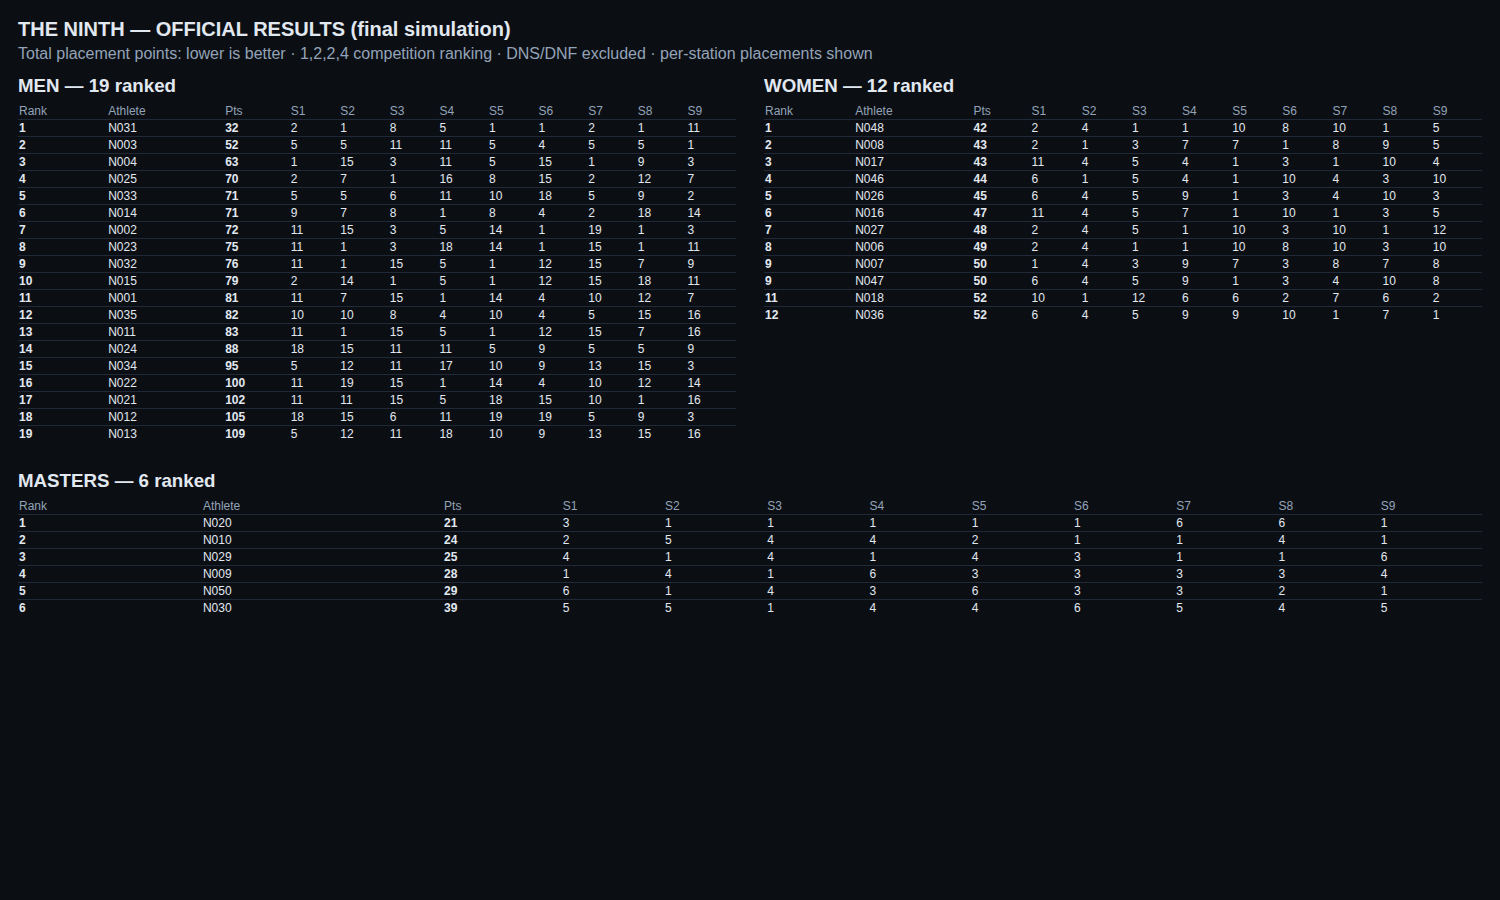
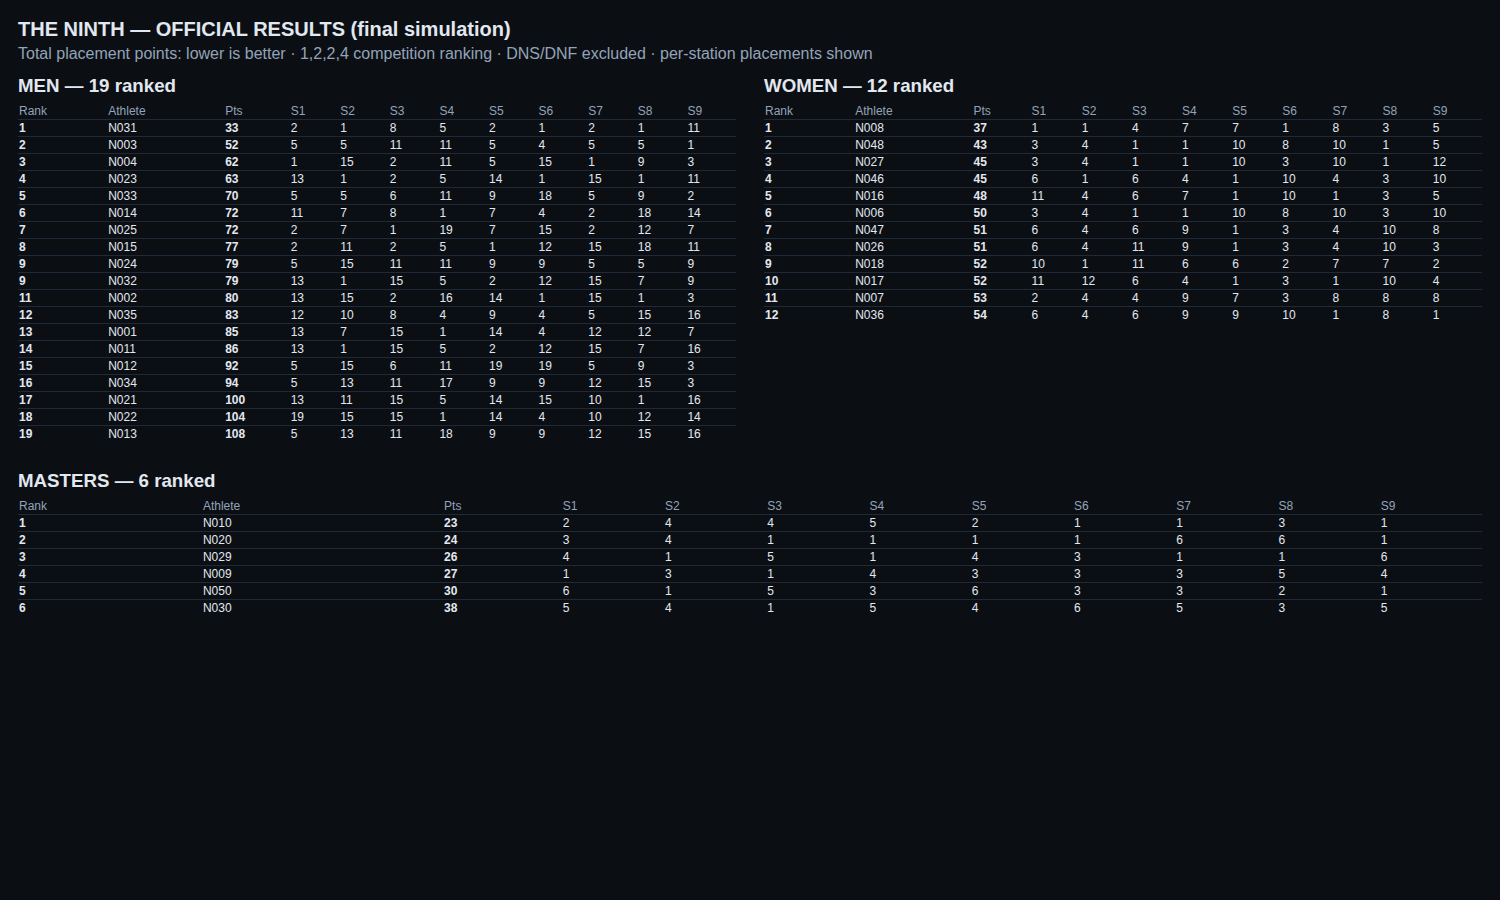
Final end-to-end validation report (docs/race/12) + refreshed visuals
Claude-Session: https://claude.ai/code/session_01AhLUVyhd5PDZQBcRpc2HBH

diff --git a/docs/race/12-final-end-to-end-validation.md b/docs/race/12-final-end-to-end-validation.md
@@ -1,0 +1,197 @@
+# Final end-to-end race validation — THE NINTH
+
+Baseline: the approved checkpoint + Phases 1–10. THE NINTH stays isolated from the gym system. **No Supabase project was created, connected or configured; no credentials were requested or committed; nothing was deployed.** `apps/race` stays in the Turbo build. This phase added **no product features**; it found and fixed **one race-critical scoring bug** (§11).
+
+## FINAL STATUS: **READY FOR PRODUCTION INFRASTRUCTURE**
+
+The whole event — registration to official publication — ran through the real RPCs as the real roles, and an independent model (separate code, written from the rulebook, not from the SQL) agreed with the system on every window, action outcome, raw score, placement, total and rank in **all 6 consecutive final runs** (≈ 8,700 checks per run, 0 mismatches). Every exception in the brief was exercised. Concurrency storms, role matrix, audit reconstruction and append-only checks pass.
+
+Not blockers for infrastructure, but **open before race day** (details in §13):
+1. **REAL-WORLD OCR VALIDATION = PENDING.** No real rowing-monitor photos were available. Nothing was faked. A ready-to-run validator exists (§7). Until it passes on real photos, Station 09 must run with the fail-safe path in mind (a failed read → retake → Master Control manual correction, both fully audited).
+2. The simulation proves the database engine, not the network, phones or Supabase itself. Run `verify/verify_deployment.sql` on the real project and repeat this simulation against it once it exists (§13).
+
+---
+
+## 1. How it was validated (method)
+
+| Piece | What it is |
+|---|---|
+| **Independent model** `docs/race/scripts/final-model.mjs` | Generates the roster, the per-athlete per-station action plans (deliberate ties, VOIDs, NO_REPs, F-4 penalties, technique scores, Masters holds, rowing flows) and the scripted exceptions. **Re-implements** timing, scoring, OCR classification, ranking (1,2,2,4) and the rowing state machine in JS. It never reads the app's SQL. |
+| **Driver** `supabase-race/tests/harness/final/{setup,run,post,audit,export}.sql` | Replays the plan against a throw-away PostgreSQL 16 with all 17 THE NINTH migrations, calling the **real RPCs as real roles** (anonymous registration, Reception, Event Manager, Master Control, 9 Judges, Station Screens) in race-time order. The race clock is moved (no real waiting); everything else is real. Invariants are checked on every 5 s tick. |
+| **Comparison** | The system's state is exported as JSON and compared with the model: L1 = rules applied to the actions actually sent + official windows; L2 = replay of the exported ledger; rankings compared against both the model's raw scores and the system's raw scores. |
+| **Harness** `final_validation.sh` (step 5c of `run.sh`) | Also runs the simultaneous check-in storm, START EVENT, the post-race steps, audit and append-only checks. |
+
+The model validates *consequences*, not choices: who is skipped / withdraws is decided by the live race (the athlete in the last slot of heat 3 is skipped 50 s before their start; whoever is at Station 03 at 2:10:50 withdraws) and logged; the model then checks everything that follows.
+
+## 2. Simulation summary
+
+| | |
+|---|---|
+| Athletes registered (anonymous, public RPC) | **51** — 49 paid (rotating methods), 1 waived, **1 unpaid** (#51, refused at check-in) |
+| Heats | **6**: heats 1–4 = 9 athletes each; heat 5 = 9 athletes who never arrive (MANUAL heat, **closed without start** → CANCELLED); heat 6 = 5 athletes |
+| Categories | Men / Women / Masters (knee push-ups for Women and Masters and 5 Men) |
+| Started the race | **38** athletes (37 FINISHED, 1 DNF); 13 MISSED_START (absent N005, heat 5, N049 too late, #51 unpaid, 1 SKIP) |
+| Slots | 42: 38 STARTED, 3 EMPTY (burned), 1 SKIPPED |
+| Station windows | 342 (330 LOCKED, 6 CORRECTED, 6 NOT_REACHED after the DNF) |
+| Judge actions sent | **5,694**: 5,486 accepted, 206 pending Master review (156 approved / 50 rejected), 2 rejected — **408 delivered from offline queues** |
+| Action types | 4,741 REP · 343 NO_REP · 439 LAP · 82 TECHNIQUE_SCORE · 29 PENALTY (F-4) · 38 VOID · 6 HOLD_START · 8 HOLD_BREAK · 8 HOLD_RESUME |
+| Rowing (Station 09) steps | 138: 43 captures, 43 OCR reads (33 SUCCEEDED / 4 LOW_CONFIDENCE / 6 FAILED), 6 retakes, 30 confirmations + 5 late confirmations → Master review, refused confirmations kept in the log, 3 manual corrections + 1 after publication |
+| Pause / resume cycles | **7** (10 s to 300 s; two with devices reconnecting while paused) — 645 s of paused wall time excluded from race time |
+| Race length | official finish at race ms **12,120,000** (3:22:00) |
+| Outcome | 3 official leaderboards: Men 19 ranked, Women 12, Masters 6 |
+
+## 3. Timing results (all enforced by the checker, on every tick and again from the export)
+
+Config read back from the event: **3:00 work · 0:30 transition · 3:30 start interval · 60 s countdown** — exactly.
+
+| Invariant | Result |
+|---|---|
+| No early start | every slot's recorded start ≥ its planned start; planned start = heat anchor + slot × 3:30 exactly (42 slots) |
+| No more than 3:00 of work, no grace | all 342 windows are exactly 180,000 ms; actions at 0.3 s before the end are accepted, at the end / 0.3 s after are not (see boundary cases, §4) |
+| Every transition exactly 0:30 | lock time − window end = 30,000 ms for every reached window |
+| Every start interval exactly 3:30 | consecutive slots 210,000 ms apart; heat anchors 60,000 / 2,340,000 / 4,620,000 / 6,900,000 and **heat 6 at 9,180,000 even though heat 5 was cancelled** |
+| No overlap | per station, window *n+1* starts ≥ window *n* end + 0:30 (checked for every pair) |
+| No slot change after binding | a per-tick check records every bound slot and fails if any ever changes |
+| SKIP never moves anyone | the slot after the skipped one starts at its original time; all windows still match the arithmetic |
+| Pause time excluded; pauses cannot overlap | 7 pauses at the scripted race times (±60 ms), none overlapping, none left open, `paused_total_ms` = sum of the pause wall times (±10 ms) |
+| Race time authoritative after reconnect | after every blackout the screens are compared with the arithmetic: who is at each of the 9 stations, remaining time, phase |
+| UI disconnection cannot change state | Master blackout, one judge offline, **all devices offline for 5 minutes (twice)** — state after reconnect equals the arithmetic; nothing was advanced, skipped or lost by a client being away |
+| Event completion only after all required windows | official finish = end of the last reached window + 0:30 (never earlier, ≤ 10 s after in the run); **cancelled heat 5 did not block completion** |
+
+Recorded start lag: when *no device at all* reads for minutes, the engine only *materialises* a start when the next reader arrives (it is a pure function of official time — by design, no ticking server). The audit records the planned time and the lag; the official time is never affected. Largest lag in the run: 130 s (inside a 5-minute total blackout); 2 starts exceeded 6 s, both inside total blackouts.
+
+## 4. Exceptions tested
+
+| Exception | How |
+|---|---|
+| Normal athletes | 37 athletes finished all 9 stations |
+| **Simultaneous check-ins** | 45 sessions + 9 duplicate desk presses at the same instant → 46 active check-ins, no duplicate, no error |
+| Wrong check-in + Master correction | N005 checked in by mistake, corrected to N006; original and correction both remain |
+| **Late check-ins** / **late overflow** | N014 (late, during the race), N048 and N049 (after their heat's start: overflow / too late → DNS) — the engine's own rule decides each |
+| DNS | absent athlete, closed heat 5, unpaid athlete |
+| **DNF** | an athlete withdraws at Station 03 → stations 4–9 NOT_REACHED, ranking excludes them |
+| **SKIP** | last slot of heat 3 skipped 50 s before its start → nobody else moves |
+| **Emergency pause**, multiple pause/resume cycles | 7 cycles |
+| **Master disconnect** | ~4 min, judges keep scoring |
+| **Judge disconnect** | Station 03 judge offline ~7 min |
+| **Station Screen disconnect / reconnect** | each blackout ends with every station screen compared with the arithmetic |
+| **Complete client disconnect** | all devices offline 5 min (twice) + two 1-minute blackouts ending at the 3:00 boundary |
+| Reconnect during **WORK**, **TRANSITION**, **PAUSE** | explicit assertions for each (race time frozen during PAUSE, every screen says so) |
+| **Exactly around the 3:00 boundary** | all devices reconnect **0.3 s before** the end (queued actions accepted, athlete still ACTIVE) and **0.3 s after** (queued actions → Master review, never silently accepted) |
+| **Offline judge actions** | 408 delivered from queues; the ones that lost to the lock became PENDING_MASTER_REVIEW and were approved/rejected by Master Control |
+| **Offline OCR capture** | rowing judge's phone offline ~7 min |
+| **OCR retake / confirmation / Master correction** | see §7 |
+| **Ties / identical station scores** | deliberate equal scores at stations and equal totals; ranks 1,2,2,4 kept |
+| VOID / NO_REP / F-4 penalty / technique scores | 38 VOIDs, 343 NO_REPs, 29 penalties, 82 technique scores |
+
+## 5. Scoring verification (S01–S09)
+
+Every raw score of all 299 scored results was recomputed by the model from the actions actually sent and compared (exact, except Masters hold ms: ±400 ms — the drift of a 160-action queue flush in the harness):
+
+| Station | Rule checked |
+|---|---|
+| S01 Wall squat | Masters: hold time with break limit (the exit beyond the limit ends the hold; later RESUME ignored); others: reps |
+| S02 Push-ups | knee style = floor(reps / 3), remainder ignored; NO_REP not counted; VOID removes exactly one |
+| S03 Shuttle | completed 10 m laps only; F-4 can cancel only a *completed* lap |
+| S04 Jab+Cross | reps, NO_REP, technique score (tie-break) |
+| S05 Box jump | reps |
+| S06 | unlimited breaks; **F-4 penalty cancels the last completed lap, never negative** |
+| S07 Alternating kicks | reps + technique score |
+| S08 Burpee + 2 speed ball | reps |
+| S09 Rowing | distance from confirmed OCR or latest manual correction only (§7) |
+
+Plus: Event Manager corrections after the race (an official score, a technique score) with reason; the model applies them and agrees.
+
+## 6. Ranking verification (computed outside the app)
+
+For Men, Women and Masters **separately**: raw results → station placements (competition ranking, direction per station) → total placement points → overall rank with the S04 then S07 technique tie-breakers; DNS and DNF excluded; **ties preserved** (e.g. two athletes on the same total keep the same rank and the next rank is skipped). The model's rankings were compared with the system's official snapshot — every placement, total and rank — **twice**: using the model's own raw scores and using the system's raw scores. The post-publication rowing correction wrote a new official snapshot version (older versions untouched).
+
+![executed schedule](screenshots/final/01-final-schedule-executed.png)
+![official leaderboards](screenshots/final/02-final-official-leaderboards.png)
+
+*(Both images are rendered by `docs/race/scripts/final-visuals.mjs` from the exported results of the final simulation; they are not screenshots of the app UI. The app UI was verified in Phases 8–10; no app code changed in this phase.)*
+
+## 7. OCR validation
+
+**In the simulation** (the OCR *workflow*, not the camera/reader): capture → read result (SUCCEEDED ≥ 0.85 / LOW_CONFIDENCE 0.60–0.85 / FAILED < 0.60, no number or > 1,500 m) → judge confirmation (refused when LOW_CONFIDENCE without acknowledgement) → retake → late confirmation → Master review → manual correction by Master / Event Manager → correction after publication (Event Manager only). The model re-implements the state machine and every logged call had exactly the outcome the rules prescribe; the official rowing distance of every athlete matched; an unconfirmed result blocks official publication (`pending_evidence`) and is shown as such.
+
+**Real-world OCR validation = PENDING.** No real photos exist in this environment and none were invented.
+* `docs/race/scripts/ocr-photo-validation.mjs <photos-dir> <truth.csv>` runs the *same* pipeline as the judge's phone (Otsu binarisation → tesseract.js LSTM from `public/race-ocr` → `parseRowingDistance` → `classifyOcr`) and reports accuracy and — the number that matters — **confident-wrong readings** (a wrong number classified SUCCEEDED). It exits 0 only with ≥ 90 % exact and **0** confident-wrong; with no photos it prints `REAL-WORLD OCR VALIDATION = PENDING` (exit 2).
+* `--synthetic` is a self-check of the script only and is labelled as such. Finding from it (not real-world evidence): on a clean, isolated 3–4-digit synthetic display the shipped setting (PSM AUTO) read only 2/14 (all others failed *safe* as FAILED, 0 confident-wrong), PSM 11 (sparse text) read 13/14 with 0 confident-wrong, PSM 7 produced 2 confident-wrong readings (dangerous). **Tune on real photos** (candidate: PSM 11 as a fallback when AUTO finds no number); no change was made without real data.
+
+## 8. Concurrency (real parallel sessions against the real RPCs)
+
+| Requirement | Storm (all pass) |
+|---|---|
+| Duplicate Judge action | 1 action × 30 sessions → 1 event, 29 duplicates; 10 actions × 4 retries; 20 devices × 5 actions (100 events, none lost/doubled); 320 actions racing the 3:00 lock → none accepted at/after the end |
+| OCR upload | 1 photo × 20 sessions → 1 attempt; 11 different photos at once → 1 new, 10 refused |
+| OCR confirmation | 8 simultaneous confirms → exactly 1 (+ idempotent replays) |
+| **OCR Master review (new)** | 8 simultaneous reviews of one late confirmation → exactly 1 decision, 7 told "not pending" |
+| Correction | 8 different corrections → unbroken chain; **8 identical corrections (new)** → 1 applied, 7 refused "no change"; 8 Master rowing corrections |
+| Check-in | 50 simultaneous across 6 heats; 10 simultaneous for one athlete → 1; 8 desks correcting onto one athlete → 1 correction; the 45+9 storm inside this simulation |
+| VOID | 8 sessions voiding one action → exactly 1 |
+| Review | 8 Master reviews of one pending action → exactly 1 |
+| Also | START EVENT ×12, pause ×10, resume ×10, skip racing the automatic start, close heat ×8, publish ×8, rankings ×10, 12 devices reconnecting at once after a 40-minute blackout |
+
+## 9. Security / role validation (`tests/26_role_matrix.sql`, on a LIVE race, real RPCs and tables as each user)
+
+| Role | Allowed (tested) | Refused (tested) |
+|---|---|---|
+| Reception | check in | skip · change start order/heat · score · edit a result · pause · publish · compute rankings · approve an offline action · direct DML on results |
+| Judge (own station) | score own station · a late offline replay is accepted into the ledger as *pending* | score at another station · pause/resume · skip · DNF · edit official result · change OCR distance directly · approve even his own offline action · publish · check in · direct ledger/result writes |
+| Station Screen | read its screen | score · capture evidence · pause · skip · edit · approve · any direct write |
+| Master Control | pause · resume · decide offline actions (reason mandatory) | grant Super Admin / event creation · publish · refund a payment · create an event · direct event write |
+| Event Manager | pause · resume · correct a LOCKED result **with reason** (audit row + original ledger kept) | skip or correct **without a reason** · make anyone Super Admin · edit the audit log · delete ledger rows |
+| Super Admin | everything above + grant/withdraw event creation (audited) | edit the audit log (nobody can) |
+| Anonymous / stranger / athlete account | — | control the race · score · read the ledger · edit results |
+
+## 10. Audit validation (`final/audit.sql`)
+
+Complete event reconstructable from what was kept: every check-in (incl. the wrong one and its correction), the performance ledger holds **exactly** every action that was sent (accepted, pending, rejected; VOIDs pointing at their targets; penalties as rows), rejected/pending actions with codes and reviews (both decisions occurred), every OCR capture/retake/review/manual correction has its audit row, 7 pause + 7 resume rows, the SKIP, the DNF and all DNS, one START and one FINISH, every locked score **reproducible** by recomputing from the ledger (≥ 250 results), result corrections keep old value / new value / reason / actor. **Append-only:** 12 UPDATE/DELETE attempts on the ledgers, audit log, OCR records, corrections, rankings, pauses and reviews were all refused — even for the database owner.
+
+## 11. Bugs discovered and fixed
+
+| # | Found by | Severity | What | Fix |
+|---|---|---|---|---|
+| 1 | Final simulation (intermittent disagreement with the model, traced to the ledger) | **Race-critical (scoring determinism)** | `race_result_tally` ordered same-millisecond actions by the **random row id**. A device flushing its offline queue can produce two actions with the same race millisecond (e.g. HOLD_BREAK + HOLD_RESUME, LAP + PENALTY, two TECHNIQUE scores). The same ledger then scored differently on different recomputations (hold 168,410 vs 168,688 ms; laps 6 vs 7; technique 6.5 vs 8). | Migration `20260930000006_race_tally_deterministic_order.sql`: ties follow the order the server received them (`server_received_at`), id last. Regression suite `27_tally_tie_order.sql` (forward/reverse id order + 40 random pairs). |
+
+Harness defects found and fixed along the way (not product bugs, listed because they hid real behaviour): every simulated judge action was failing silently on a permission error in the driver's own logging (a technical-error check now fails the run); actions planned for athletes later skipped/withdrawn are now dropped; the race clock is now put back on the scripted instant (once per instant, monotonic) so the harness's processing time is not race time; audit counts scoped to the final event; Masters hold plans made distinct.
+
+## 12. Test results
+
+* Full harness: **1,247+ assertions** (suites 00–27) + all concurrency storms + the final end-to-end validation — `ALL RACE MIGRATION TESTS PASSED`.
+* Final simulation: 6 consecutive runs with random slot orders, **0 mismatches** each (≈ 8,700 independent checks per run).
+* `pnpm lint` clean · `pnpm typecheck` and `pnpm test` pass (packages/apps unchanged in this phase; 264 package unit tests) · `supabase-race/tests/check-isolation.sh` passes (gym files identical to `527f705`, no secrets, no JWT-shaped strings, no `.env`).
+* Browser E2E (88/88 in Phase 10) was **not re-run**: no app code changed.
+
+## 13. Remaining limitations (read before production)
+
+1. **Real-world OCR validation = PENDING** (§7). Need ≥ 30 real photos across lighting/glare/angles; the validator is ready.
+2. The simulation runs on a throw-away PostgreSQL 16 with a Supabase *shim* (auth, storage, realtime stubs), single node, race clock moved instead of waited. It proves the engine's logic and locking, **not** Supabase Auth/Realtime/Storage themselves, real RLS under PostgREST, phone browsers, camera, or network behaviour (blackouts are simulated as "that device sends nothing", not packet loss).
+3. No scheduler: state is a pure function of official time and is materialised by any reader. If nobody reads for minutes, the audit shows the start *lag* (official times unaffected). A staff device should stay open; a pg_cron/Edge backstop (`race_advance_all` exists) is a cheap infrastructure option.
+4. Unreachable-by-design: a result is only ever corrected with a reason; a confirmed rowing distance is changeable only by Master Control / Event Manager with evidence cited.
+5. After infrastructure exists: run `verify/verify_deployment.sql`, then repeat this simulation (and a physical dress rehearsal with real phones and a real rowing machine) before race day.
+
+## 14. Production readiness checklist
+
+| # | Item | Status | Evidence |
+|---|---|---|---|
+| 1 | Timing is authoritative (server/official time only) | ✅ | §3; invariants every 5 s tick and from the export |
+| 2 | Survives UI disconnect | ✅ | Master / judge / station / all-device blackouts, incl. 0.3 s around the 3:00 boundary |
+| 3 | No client needed to advance state | ✅ | state is derived from official time; reconnect after total blackout equals the arithmetic (start *lag* recorded, official time unchanged — §3) |
+| 4 | Scoring is race-time locked | ✅ | window rules without grace; 320-action lock race; late offline replays → Master review |
+| 5 | Judge scoring is idempotent | ✅ | 30-session duplicate storm, retry storms, offline replays |
+| 6 | OCR is auditable | ✅ (workflow) | immutable photo paths, attempts/retakes/confirmations/reviews all kept; **reader accuracy on real photos: PENDING** |
+| 7 | Results are reproducible | ✅ | every locked score recomputed from the ledger; bug #1 fixed so recomputation is deterministic |
+| 8 | Rankings independently verified | ✅ | independent model, 3 categories, ties, tie-breaks |
+| 9 | Audit is reconstructable | ✅ | §10 |
+| 10 | RLS / role tests pass | ✅ | §9 + suites 18–24; **re-verify on the real project** |
+| 11 | Gym system untouched | ✅ | identical to `527f705` (check-isolation) |
+| 12 | No production Supabase connected | ✅ | none created, no URL/keys |
+| 13 | No secrets committed | ✅ | secret scan + check-isolation |
+
+## FINAL STATUS: **READY FOR PRODUCTION INFRASTRUCTURE**
+
+Blockers: **none**. Open items before race day: real-photo OCR validation (PENDING), re-running verification against the real Supabase project and a physical dress rehearsal (§13).
+
+Stopped here as instructed: no Supabase project created or connected, no migrations applied anywhere but the throw-away test database, no credentials requested, nothing deployed. Waiting for explicit approval.
